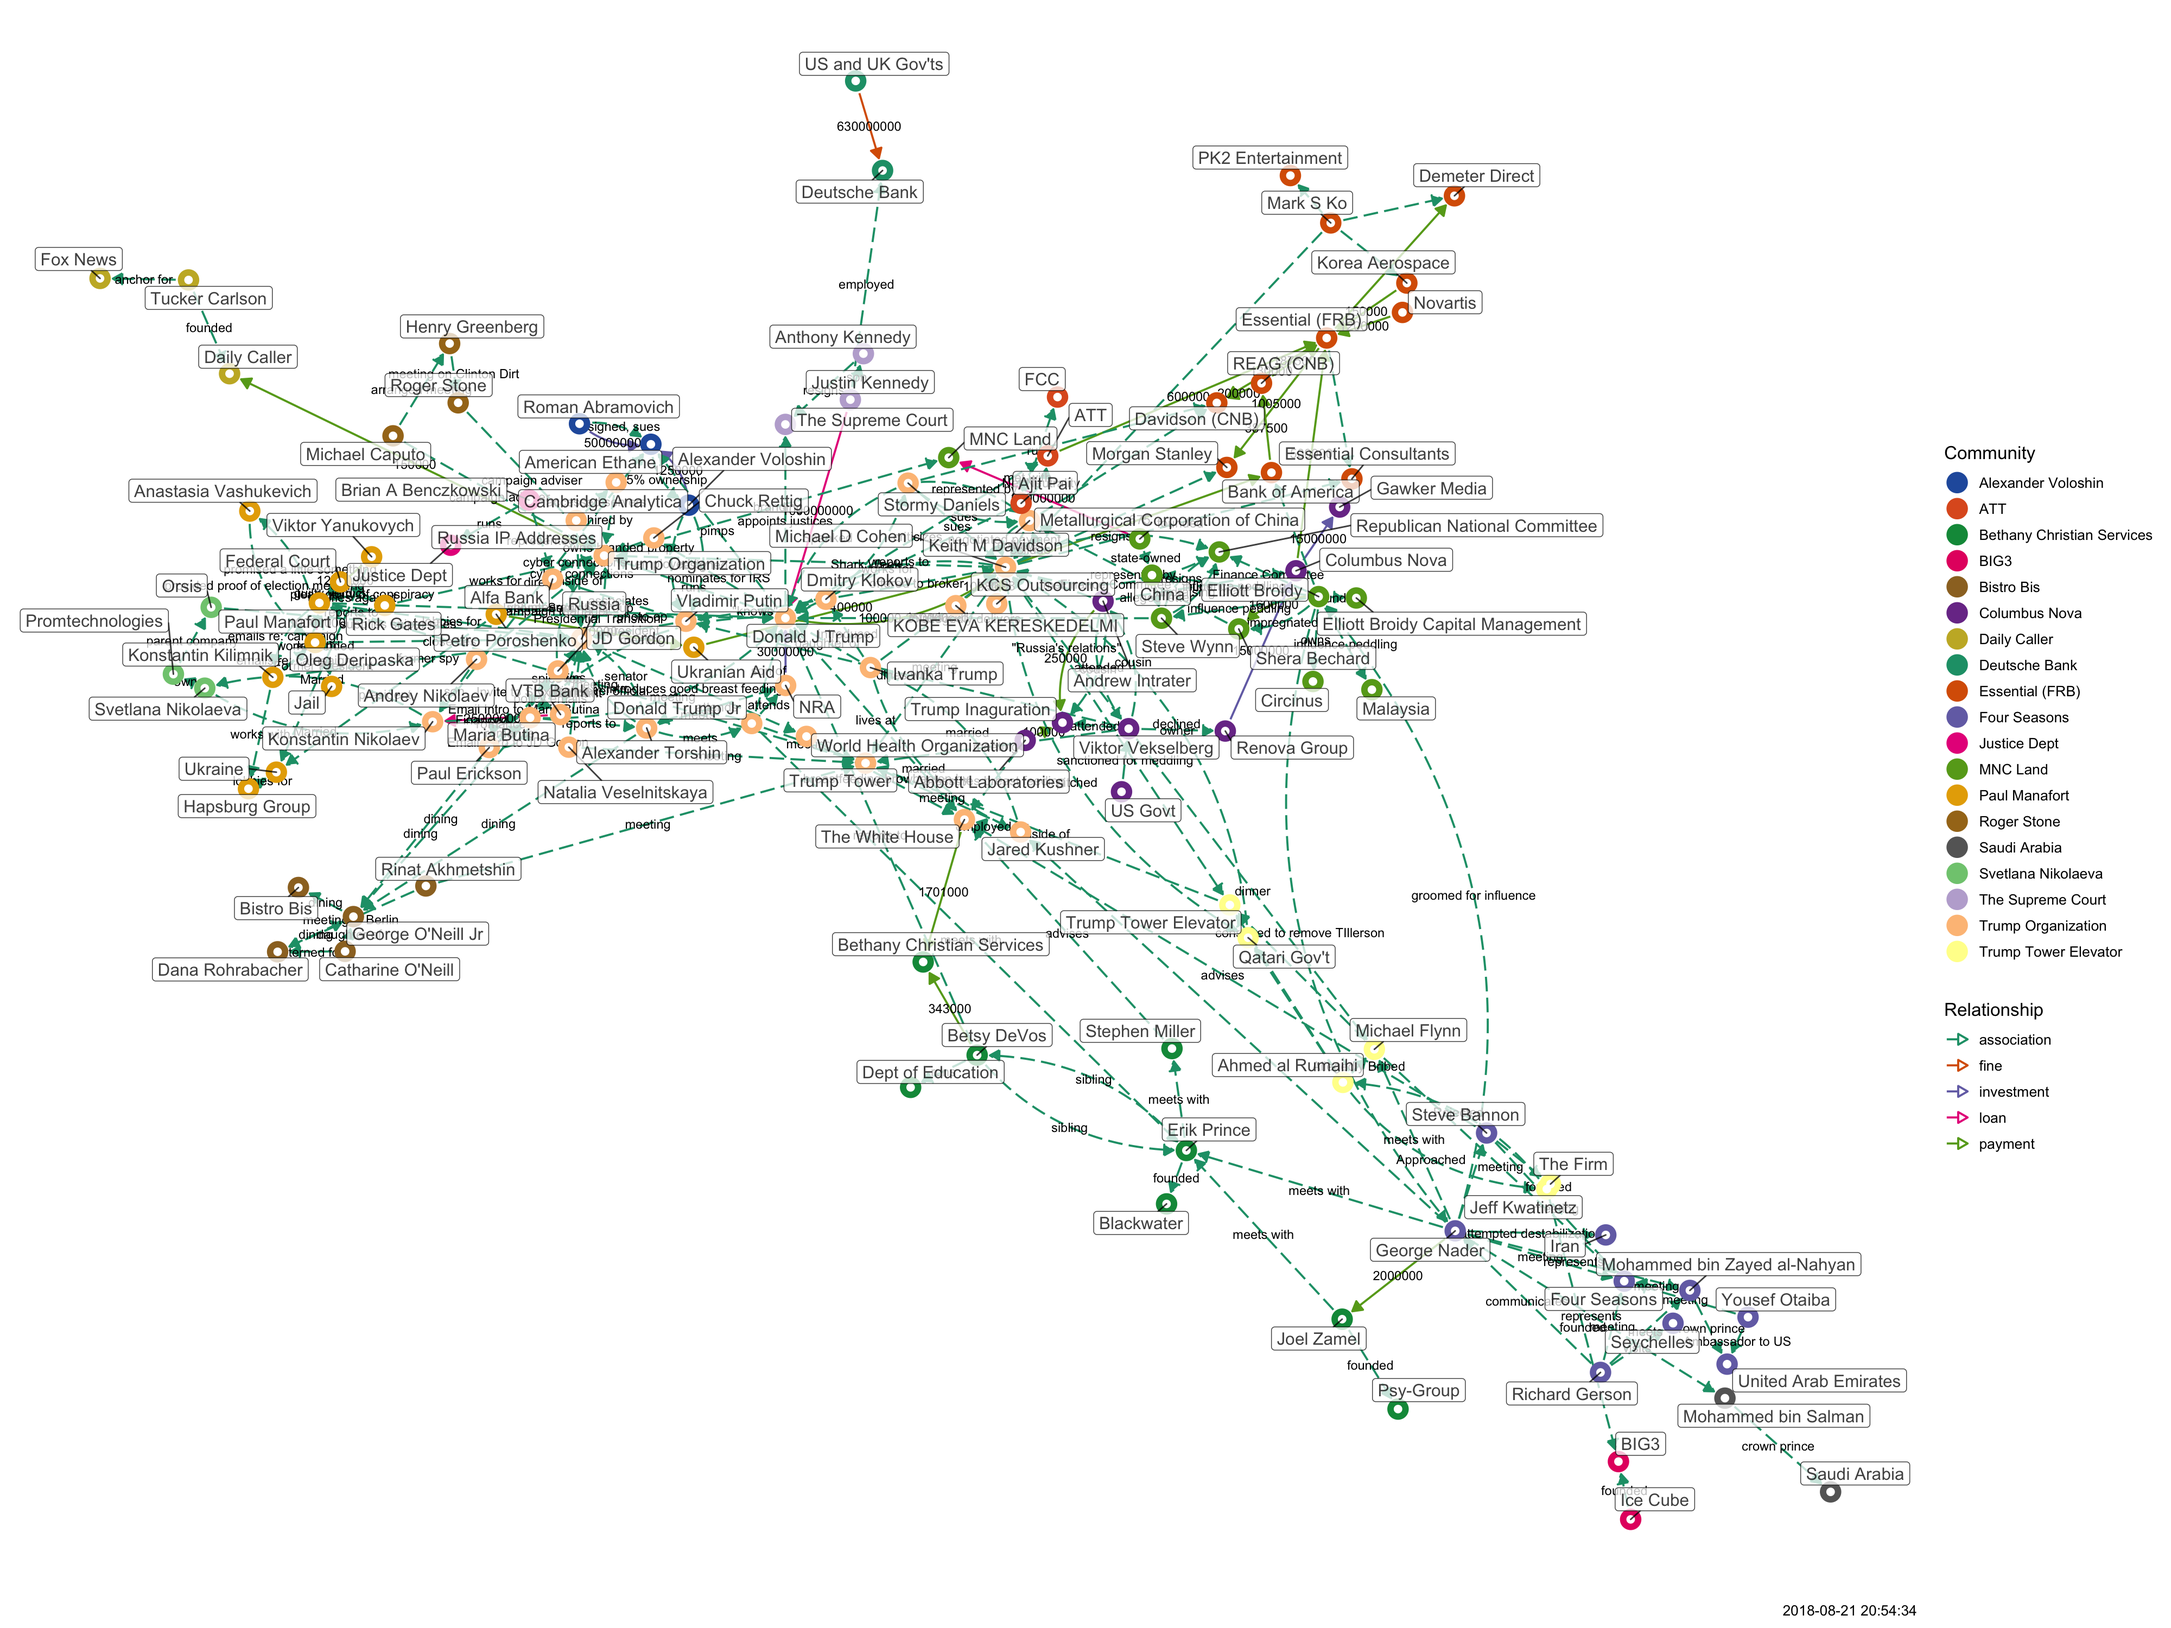
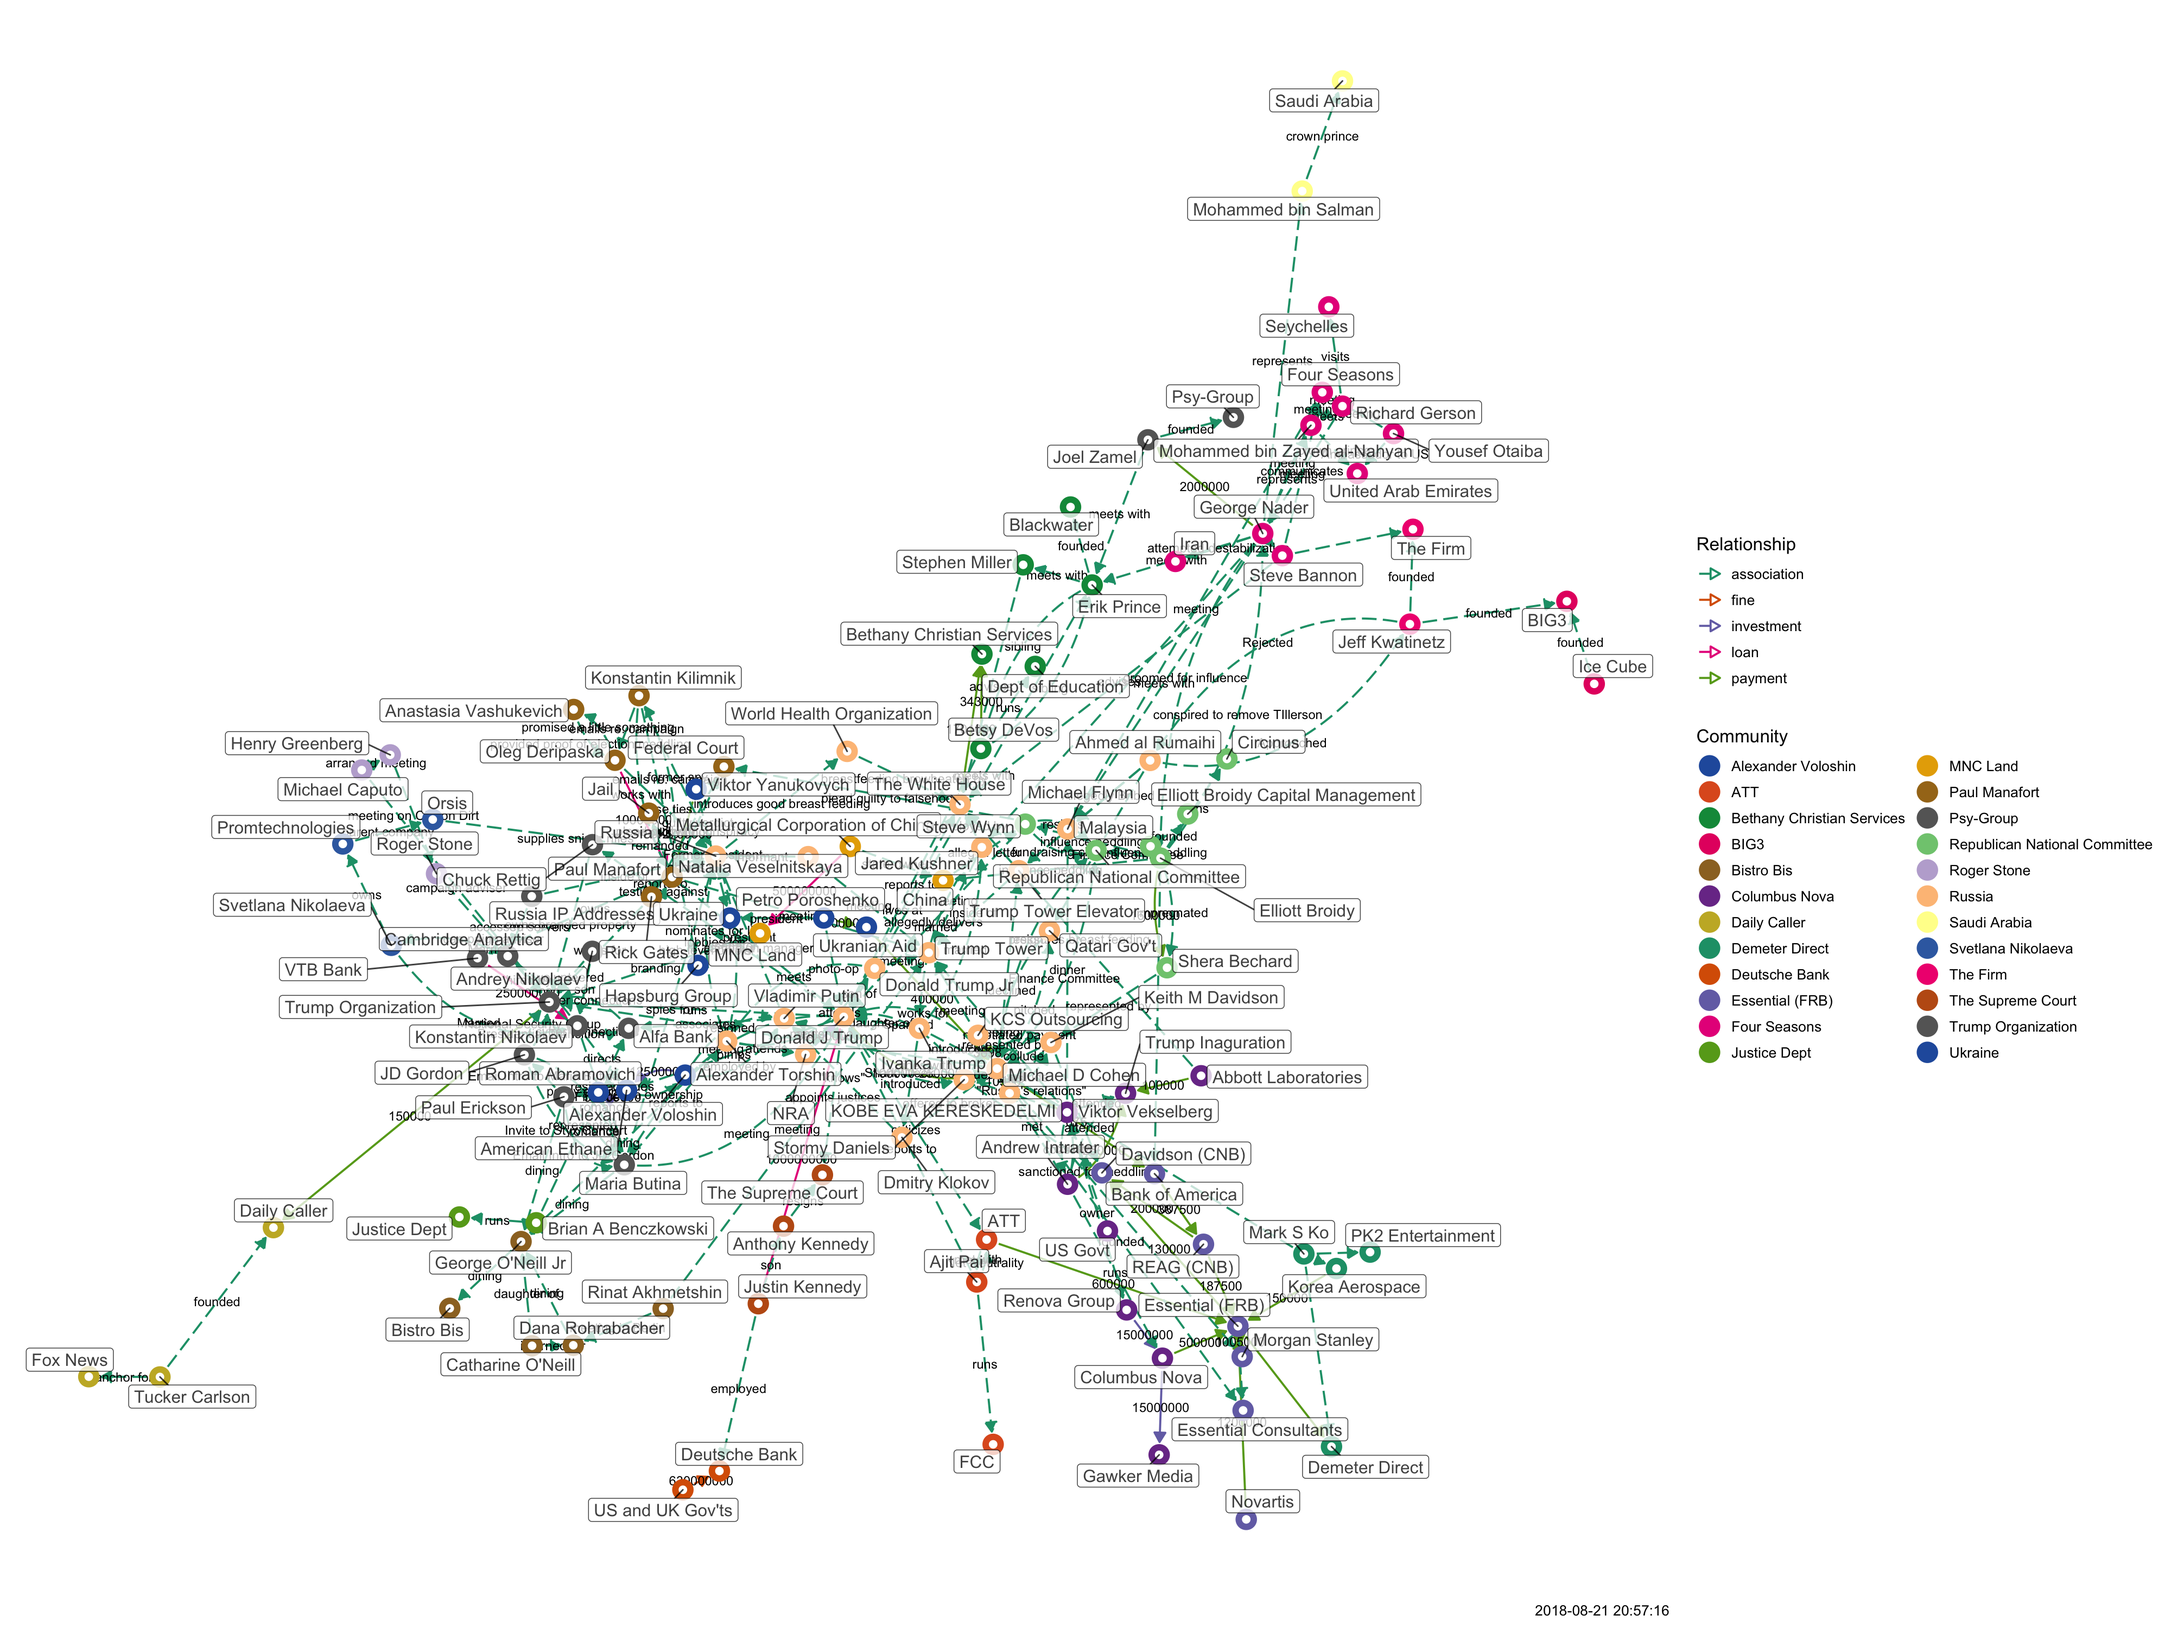
updated

diff --git a/docs/tangled-d3.html b/docs/tangled-d3.html
@@ -1143,11 +1143,11 @@ return function(){for(var n=0,e=0;e<t;++e)n+=Math.random();return n}},um=functio
 </head>
 <body style="background-color: white;">
 <div id="htmlwidget_container">
-<div id="htmlwidget-284393a0045e72ccc5d5" class="forceNetwork html-widget" style="width:960px;height:500px;">
+<div id="htmlwidget-d889098fe481867549cf" class="forceNetwork html-widget" style="width:960px;height:500px;">
 
 </div>
 </div>
-<script type="application/json" data-for="htmlwidget-284393a0045e72ccc5d5">{"x":{"links":{"source":[0,1,2,3,4,5,6,6,7,8,9,9,9,10,11,12,13,14,15,16,17,18,19,20,21,21,22,23,24,25,26,27,28,29,9,16,2,2,30,2,30,30,2,31,16,32,33,33,30,8,8,8,8,16,7,7,33,16,16,34,34,34,34,7,16,35,36,36,37,38,37,37,39,36,36,40,40,40,3,39,8,10,10,10,41,41,42,42,16,43,44,44,10,45,46,47,10,10,48,49,47,50,46,10,10,45,47,5,5,5,25,15,20,20,16,30,30,51,52,52,52,52,10,49,35,39,53,53,42,42,54,54,33,33,16,32,55,56,55,57,58,57,55,57,57,45,41,59,60,60,28,19,57,55,7,61,16,62,11,11,7,0,63,64,7,1,1,65,23,66,66,58,67,25,68,69,69,70,7,70,70,71,70,72,71,45,45,71,71,71,70,73,72,74,74,59,75,8,76,32,77,77,77,72,72,77,78,78,79,79,80,81,81,78,82,64,83,84,83,85,8,8,8,86,86,86,87,88,19,30,7,89,90,90,90,90],"target":[91,65,91,9,21,92,9,93,16,76,94,95,96,46,7,16,16,9,97,4,9,7,57,26,94,9,6,65,92,98,16,99,57,78,100,100,6,16,22,30,2,91,91,30,7,94,94,32,58,101,102,103,4,96,24,33,7,25,101,95,104,16,14,25,51,51,51,37,36,105,106,105,106,43,35,3,7,107,40,24,10,8,39,41,24,42,41,7,43,16,98,108,47,47,47,109,49,48,110,111,50,24,112,35,113,7,5,47,114,7,97,87,7,115,116,116,16,116,117,49,10,118,118,118,118,118,118,111,16,54,16,58,32,16,32,16,56,115,57,64,64,7,64,119,116,116,116,116,116,64,115,64,55,19,61,25,101,120,62,99,120,24,24,63,65,58,58,1,65,67,121,67,25,67,25,68,64,7,70,64,71,64,72,70,45,71,18,18,64,75,75,75,75,75,73,73,122,76,32,16,70,25,25,70,77,70,70,79,78,82,64,78,25,65,80,29,84,85,25,25,87,123,86,101,7,101,86,19,88,35,3,57,57,25,89,57],"colour":["red","blue","red","red","red","red","red","blue","red","red","red","red","red","red","blue","red","red","red","blue","red","red","blue","blue","red","red","red","blue","blue","red","red","red","blue","red","blue","blue","blue","blue","blue","blue","blue","blue","blue","blue","blue","blue","blue","blue","blue","blue","blue","blue","blue","blue","blue","blue","blue","blue","blue","blue","blue","blue","blue","blue","blue","blue","blue","blue","blue","blue","blue","blue","blue","blue","blue","blue","blue","blue","blue","blue","blue","blue","blue","blue","blue","blue","blue","blue","blue","blue","blue","blue","blue","blue","blue","blue","blue","blue","blue","blue","blue","blue","blue","blue","blue","blue","blue","blue","blue","blue","blue","blue","blue","blue","blue","blue","blue","blue","blue","blue","blue","blue","blue","blue","blue","blue","blue","blue","blue","blue","blue","blue","blue","blue","blue","blue","blue","blue","blue","blue","blue","blue","blue","blue","blue","blue","blue","blue","blue","blue","blue","blue","blue","blue","blue","blue","blue","blue","blue","blue","blue","blue","blue","blue","blue","blue","blue","blue","blue","blue","blue","blue","blue","blue","blue","blue","blue","blue","blue","blue","blue","blue","blue","blue","blue","blue","blue","blue","blue","blue","blue","blue","blue","blue","blue","blue","blue","blue","blue","blue","blue","blue","blue","blue","blue","blue","blue","blue","blue","blue","blue","blue","blue","blue","blue","blue","blue","blue","blue","blue","blue","blue","blue","blue","blue","blue","blue","blue","blue","blue","blue","blue","blue","blue","blue","blue","blue"]},"nodes":{"name":["Abbott Laboratories","Alexander Voloshin","Andrew Intrater","ATT","Bank of America","Betsy DeVos","Columbus Nova","Donald J Trump","Elliott Broidy","Essential (FRB)","George Nader","Justin Kennedy","KCS Outsourcing","KOBE EVA KERESKEDELMI","Korea Aerospace","Metallurgical Corporation of China","Michael D Cohen","Novartis","NRA","Oleg Deripaska","Petro Poroshenko","REAG (CNB)","Renova Group","Roman Abramovich","The White House","Trump Organization","Ukranian Aid","US and UK Gov'ts","Viktor Yanukovych","VTB Bank","Viktor Vekselberg","US Govt","Keith M Davidson","Stormy Daniels","Mark S Ko","Michael Flynn","Ahmed al Rumaihi","Jeff Kwatinetz","Ice Cube","Steve Bannon","Ajit Pai","Jared Kushner","Ivanka Trump","Qatari Gov't","Tucker Carlson","Donald Trump Jr","Joel Zamel","Erik Prince","Mohammed bin Salman","Mohammed bin Zayed al-Nahyan","Stephen Miller","Trump Tower Elevator","Richard Gerson","Yousef Otaiba","Dmitry Klokov","Konstantin Kilimnik","Hapsburg Group","Paul Manafort","Vladimir Putin","Rinat Akhmetshin","Natalia Veselnitskaya","Chuck Rettig","Anthony Kennedy","World Health Organization","Russia","American Ethane","Brian A Benczkowski","Alfa Bank","Cambridge Analytica","Russia IP Addresses","Maria Butina","Alexander Torshin","Paul Erickson","Dana Rohrabacher","Catharine O'Neill","George O'Neill Jr","Shera Bechard","JD Gordon","Konstantin Nikolaev","Svetlana Nikolaeva","Orsis","Andrey Nikolaev","Promtechnologies","Michael Caputo","Henry Greenberg","Roger Stone","Steve Wynn","China","Anastasia Vashukevich","Federal Court","Rick Gates","Trump Inaguration","Bethany Christian Services","Gawker Media","Davidson (CNB)","Demeter Direct","Morgan Stanley","MNC Land","Daily Caller","Deutsche Bank","Essential Consultants","Republican National Committee","Elliott Broidy Capital Management","Circinus","PK2 Entertainment","BIG3","The Firm","FCC","Fox News","Blackwater","Saudi Arabia","United Arab Emirates","Psy-Group","Iran","Dept of Education","Ukraine","Trump Tower","Seychelles","Four Seasons","Jail","The Supreme Court","Justice Dept","Bistro Bis","Malaysia"],"group":["7","14","7","11","3","6","7","1","4","3","5","12","1","1","3","4","1","3","1","2","2","3","7","14","1","1","2","19","2","1","7","7","1","1","3","8","8","8","18","5","11","1","1","8","10","1","6","6","16","5","6","8","5","5","1","2","2","2","1","9","1","1","12","1","1","14","17","1","1","1","1","1","1","9","9","9","4","1","1","13","13","1","13","15","15","15","4","4","2","2","2","7","6","7","3","3","3","4","10","19","3","4","4","4","3","18","8","11","10","6","16","5","6","5","6","2","1","5","5","2","12","17","9","4"]},"options":{"NodeID":"name","Group":"group","colourScale":"d3.scaleOrdinal(d3.schemeCategory20);","fontSize":20,"fontFamily":"serif","clickTextSize":50,"linkDistance":50,"linkWidth":"function(d) { return Math.sqrt(d.value); }","charge":-100,"opacity":1,"zoom":true,"legend":false,"arrows":false,"nodesize":false,"radiusCalculation":" Math.sqrt(d.nodesize)+6","bounded":false,"opacityNoHover":1,"clickAction":null}},"evals":[],"jsHooks":[]}</script>
-<script type="application/htmlwidget-sizing" data-for="htmlwidget-284393a0045e72ccc5d5">{"viewer":{"width":450,"height":350,"padding":10,"fill":true},"browser":{"width":960,"height":500,"padding":10,"fill":true}}</script>
+<script type="application/json" data-for="htmlwidget-d889098fe481867549cf">{"x":{"links":{"source":[0,1,2,3,4,5,6,6,7,8,9,9,9,10,11,12,13,14,15,16,17,18,19,20,21,21,22,23,24,25,26,27,28,29,9,16,2,2,30,2,30,30,2,31,16,32,33,33,30,8,8,8,8,16,7,7,33,16,16,34,34,34,34,7,16,35,36,36,37,38,37,37,39,36,36,40,40,40,3,39,8,10,10,10,41,41,42,42,16,43,44,44,10,45,46,47,10,10,48,49,47,50,46,10,10,45,47,5,5,5,25,15,20,20,16,30,30,51,52,52,52,52,10,49,35,39,53,53,42,42,54,54,33,33,16,32,55,56,55,57,58,57,55,57,57,45,41,59,60,60,28,19,57,55,7,61,16,62,11,11,7,0,63,64,7,1,1,65,23,66,66,58,67,25,68,69,69,70,7,70,70,71,70,72,71,45,45,71,71,71,70,73,72,74,74,59,75,8,76,32,77,77,77,72,72,77,78,78,79,79,80,81,81,78,82,64,83,84,83,85,8,8,8,86,86,86,87,88,19,30,7,89,90,90,90,90,35],"target":[91,65,91,9,21,92,9,93,16,76,94,95,96,46,7,16,16,9,97,4,9,7,57,26,94,9,6,65,92,98,16,99,57,78,100,100,6,16,22,30,2,91,91,30,7,94,94,32,58,101,102,103,4,96,24,33,7,25,101,95,104,16,14,25,51,51,51,37,36,105,106,105,106,43,35,3,7,107,40,24,10,8,39,41,24,42,41,7,43,16,98,108,47,47,47,109,49,48,110,111,50,24,112,35,113,7,5,47,114,7,97,87,7,115,116,116,16,116,117,49,10,118,118,118,118,118,118,111,16,54,16,58,32,16,32,16,56,115,57,64,64,7,64,119,116,116,116,116,116,64,115,64,55,19,61,25,101,120,62,99,120,24,24,63,65,58,58,1,65,67,121,67,25,67,25,68,64,7,70,64,71,64,72,70,45,71,18,18,64,75,75,75,75,75,73,73,122,76,32,16,70,25,25,70,77,70,70,79,78,82,64,78,25,65,80,29,84,85,25,25,87,123,86,101,7,101,86,19,88,35,3,57,57,25,89,57,89],"colour":["red","blue","red","red","red","red","red","blue","red","red","red","red","red","red","blue","red","red","red","blue","red","red","blue","blue","red","red","red","blue","blue","red","red","red","blue","red","blue","blue","blue","blue","blue","blue","blue","blue","blue","blue","blue","blue","blue","blue","blue","blue","blue","blue","blue","blue","blue","blue","blue","blue","blue","blue","blue","blue","blue","blue","blue","blue","blue","blue","blue","blue","blue","blue","blue","blue","blue","blue","blue","blue","blue","blue","blue","blue","blue","blue","blue","blue","blue","blue","blue","blue","blue","blue","blue","blue","blue","blue","blue","blue","blue","blue","blue","blue","blue","blue","blue","blue","blue","blue","blue","blue","blue","blue","blue","blue","blue","blue","blue","blue","blue","blue","blue","blue","blue","blue","blue","blue","blue","blue","blue","blue","blue","blue","blue","blue","blue","blue","blue","blue","blue","blue","blue","blue","blue","blue","blue","blue","blue","blue","blue","blue","blue","blue","blue","blue","blue","blue","blue","blue","blue","blue","blue","blue","blue","blue","blue","blue","blue","blue","blue","blue","blue","blue","blue","blue","blue","blue","blue","blue","blue","blue","blue","blue","blue","blue","blue","blue","blue","blue","blue","blue","blue","blue","blue","blue","blue","blue","blue","blue","blue","blue","blue","blue","blue","blue","blue","blue","blue","blue","blue","blue","blue","blue","blue","blue","blue","blue","blue","blue","blue","blue","blue","blue","blue","blue","blue","blue","blue","blue","blue","blue","blue","blue","blue","blue","blue","blue","blue","blue"]},"nodes":{"name":["Abbott Laboratories","Alexander Voloshin","Andrew Intrater","ATT","Bank of America","Betsy DeVos","Columbus Nova","Donald J Trump","Elliott Broidy","Essential (FRB)","George Nader","Justin Kennedy","KCS Outsourcing","KOBE EVA KERESKEDELMI","Korea Aerospace","Metallurgical Corporation of China","Michael D Cohen","Novartis","NRA","Oleg Deripaska","Petro Poroshenko","REAG (CNB)","Renova Group","Roman Abramovich","The White House","Trump Organization","Ukranian Aid","US and UK Gov'ts","Viktor Yanukovych","VTB Bank","Viktor Vekselberg","US Govt","Keith M Davidson","Stormy Daniels","Mark S Ko","Michael Flynn","Ahmed al Rumaihi","Jeff Kwatinetz","Ice Cube","Steve Bannon","Ajit Pai","Jared Kushner","Ivanka Trump","Qatari Gov't","Tucker Carlson","Donald Trump Jr","Joel Zamel","Erik Prince","Mohammed bin Salman","Mohammed bin Zayed al-Nahyan","Stephen Miller","Trump Tower Elevator","Richard Gerson","Yousef Otaiba","Dmitry Klokov","Konstantin Kilimnik","Hapsburg Group","Paul Manafort","Vladimir Putin","Rinat Akhmetshin","Natalia Veselnitskaya","Chuck Rettig","Anthony Kennedy","World Health Organization","Russia","American Ethane","Brian A Benczkowski","Alfa Bank","Cambridge Analytica","Russia IP Addresses","Maria Butina","Alexander Torshin","Paul Erickson","Dana Rohrabacher","Catharine O'Neill","George O'Neill Jr","Shera Bechard","JD Gordon","Konstantin Nikolaev","Svetlana Nikolaeva","Orsis","Andrey Nikolaev","Promtechnologies","Michael Caputo","Henry Greenberg","Roger Stone","Steve Wynn","China","Anastasia Vashukevich","Federal Court","Rick Gates","Trump Inaguration","Bethany Christian Services","Gawker Media","Davidson (CNB)","Demeter Direct","Morgan Stanley","MNC Land","Daily Caller","Deutsche Bank","Essential Consultants","Republican National Committee","Elliott Broidy Capital Management","Circinus","PK2 Entertainment","BIG3","The Firm","FCC","Fox News","Blackwater","Saudi Arabia","United Arab Emirates","Psy-Group","Iran","Dept of Education","Ukraine","Trump Tower","Seychelles","Four Seasons","Jail","The Supreme Court","Justice Dept","Bistro Bis","Malaysia"],"group":["4","17","4","13","6","8","4","1","7","6","3","14","1","1","11","15","1","6","1","5","9","6","4","17","1","2","9","23","9","2","4","4","1","1","11","1","1","24","22","3","13","1","1","1","12","1","19","8","20","3","8","1","3","3","1","5","9","5","1","10","1","2","14","1","1","17","21","2","2","2","2","1","2","10","10","10","7","2","2","16","16","2","16","18","18","18","7","15","5","5","5","4","8","4","6","11","6","15","12","23","6","7","7","7","11","22","24","13","12","8","20","3","19","3","8","9","1","3","3","5","14","21","10","7"]},"options":{"NodeID":"name","Group":"group","colourScale":"d3.scaleOrdinal(d3.schemeCategory20);","fontSize":20,"fontFamily":"serif","clickTextSize":50,"linkDistance":50,"linkWidth":"function(d) { return Math.sqrt(d.value); }","charge":-100,"opacity":1,"zoom":true,"legend":false,"arrows":false,"nodesize":false,"radiusCalculation":" Math.sqrt(d.nodesize)+6","bounded":false,"opacityNoHover":1,"clickAction":null}},"evals":[],"jsHooks":[]}</script>
+<script type="application/htmlwidget-sizing" data-for="htmlwidget-d889098fe481867549cf">{"viewer":{"width":450,"height":350,"padding":10,"fill":true},"browser":{"width":960,"height":500,"padding":10,"fill":true}}</script>
 </body>
 </html>
